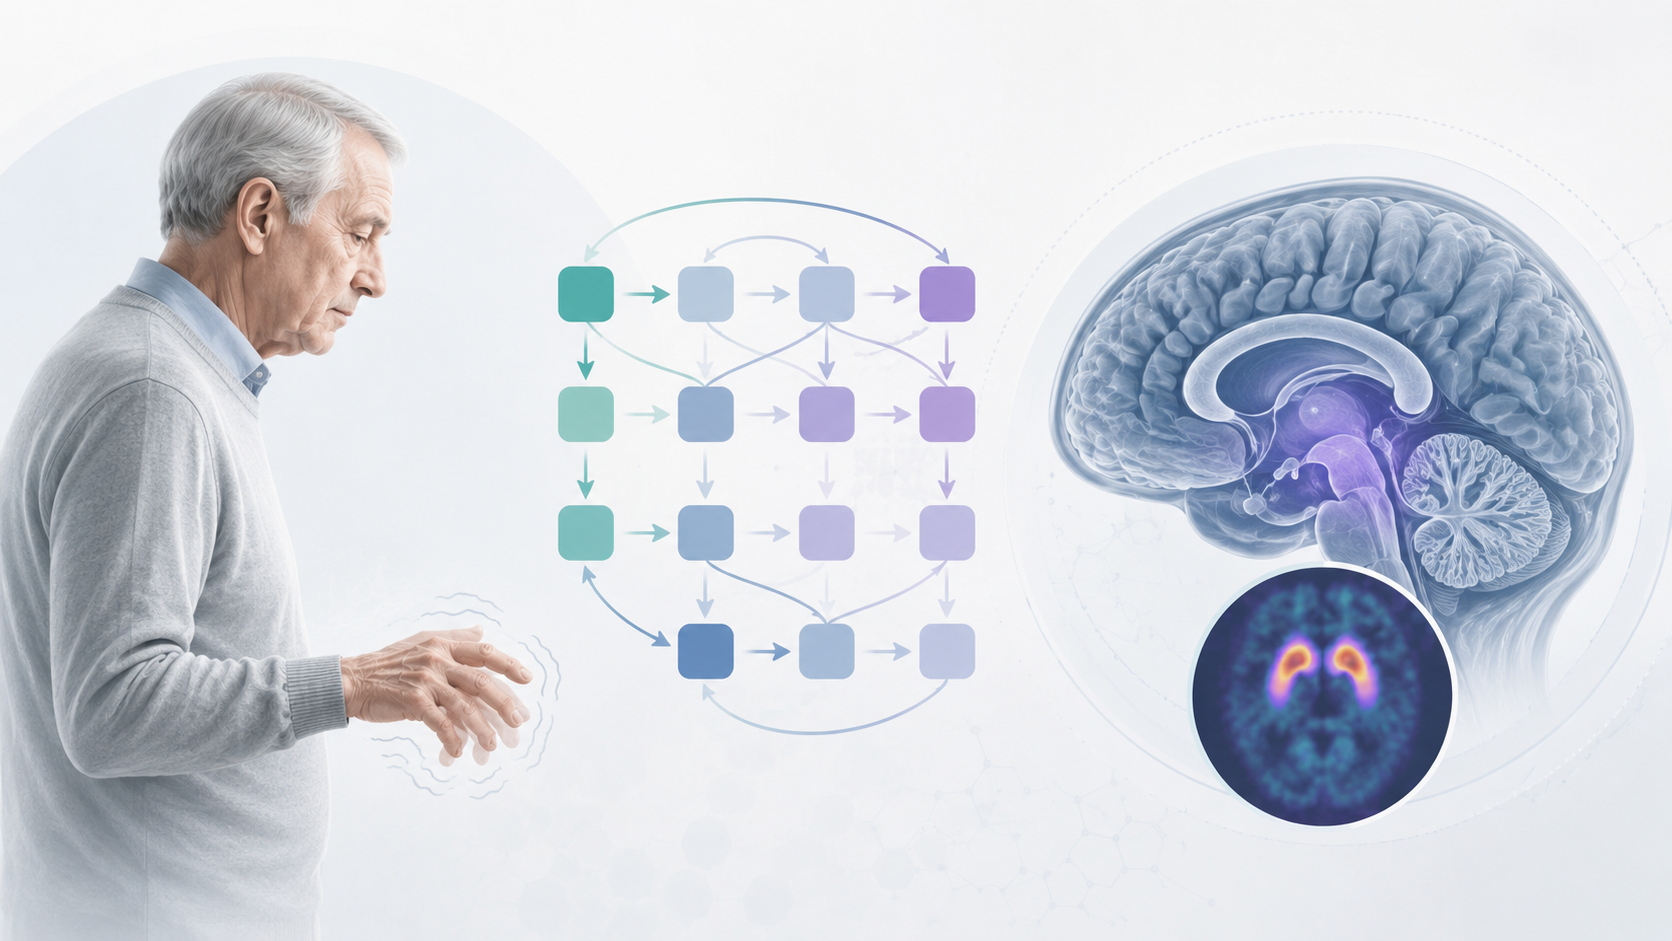
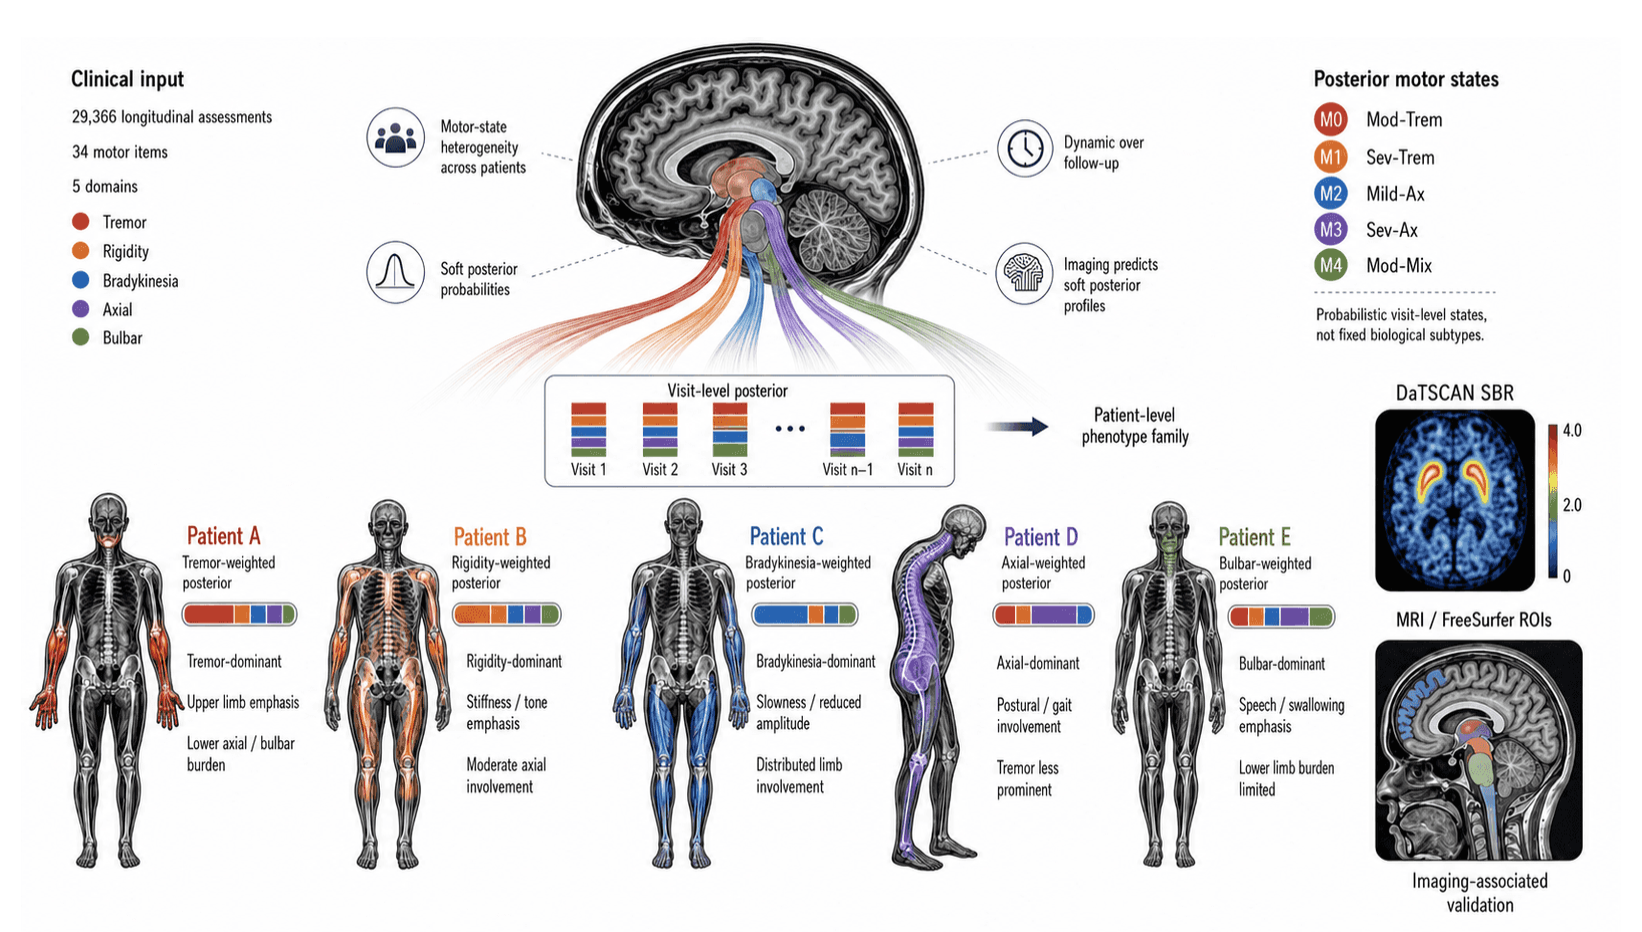
Update posterior-aware publication citation

diff --git a/src/components/publication_table.js b/src/components/publication_table.js
@@ -1,7 +1,7 @@
 import * as React from 'react'
 import DOMPurify from 'isomorphic-dompurify'
 import { Link } from 'gatsby'
-import { FaFilePdf, FaExternalLinkAlt, FaArrowUp, FaTimes } from 'react-icons/fa'
+import { FaFileAlt, FaFilePdf, FaExternalLinkAlt, FaArrowUp, FaTimes } from 'react-icons/fa'
 import PropTypes from 'prop-types'
 import './publication_table.css'
 import { database } from '../data/database'
@@ -120,10 +120,11 @@ const publicationThumbnailMap = {
     src: pathwayAnchoredThumbnail,
     alt: 'Pathway anchored multimodal clustering publication thumbnail',
   },
-  'Posterior-Aware Phenotyping with Imaging Validation in Parkinson Disease': {
-    src: posteriorAwarePhenotypingThumbnail,
-    alt: 'Posterior-aware phenotyping with imaging validation publication thumbnail',
-  },
+  'Posterior-calibrated multimodal motor states reveal longitudinal and imaging-associated heterogeneity in Parkinson’s disease':
+    {
+      src: posteriorAwarePhenotypingThumbnail,
+      alt: 'Posterior-calibrated multimodal motor states publication thumbnail',
+    },
   'Integrated Genetic, Molecular, and Wearable Sensor Biomarkers Enable Bayesian Machine Learning-Driven Precision Stratification in Parkinson’s Disease: A Comprehensive Multi-Cohort Validation Study':
     {
       src: wearableSensorBiomarkersThumbnail,
@@ -164,6 +165,16 @@ const resolvePdfLink = pdfLink => {
   }
 
   return null
+}
+
+const getPaperLinkConfig = publication => {
+  const isPreprint = publication.PublicationType === 'arXiv'
+
+  return {
+    className: isPreprint ? 'pub-link-paper' : 'pub-link-pdf',
+    Icon: isPreprint ? FaFileAlt : FaFilePdf,
+    label: isPreprint ? 'Paper' : 'PDF',
+  }
 }
 
 const resolveProjectLink = projectLink => {
@@ -292,6 +303,7 @@ const PublicationTable = ({ publicationData = [] }) => {
                       {types[type].map((publication, index) => {
                         const thumbnail = publicationThumbnailMap[publication.Title]
                         const pdfLink = resolvePdfLink(publication.PDFLink)
+                        const paperLinkConfig = getPaperLinkConfig(publication)
 
                         return (
                           <div
@@ -330,10 +342,10 @@ const PublicationTable = ({ publicationData = [] }) => {
                                     href={pdfLink}
                                     target="_blank"
                                     rel="noopener noreferrer"
-                                    className="pub-link-btn pub-link-pdf"
+                                    className={`pub-link-btn ${paperLinkConfig.className}`}
                                   >
-                                    <FaFilePdf className="pub-link-icon" />
-                                    PDF
+                                    <paperLinkConfig.Icon className="pub-link-icon" />
+                                    {paperLinkConfig.label}
                                   </a>
                                 )}
                                 {(() => {

diff --git a/src/components/publication_table.css b/src/components/publication_table.css
@@ -279,13 +279,15 @@
   transition: all 150ms ease;
 }
 
-.pub-link-pdf {
+.pub-link-pdf,
+.pub-link-paper {
   background: #fef2f2;
   color: #dc2626;
   border: 1px solid #fecaca;
 }
 
-.pub-link-pdf:hover {
+.pub-link-pdf:hover,
+.pub-link-paper:hover {
   background: #dc2626;
   color: #fff;
   border-color: #dc2626;

diff --git a/src/markdown/projects/posterior_aware_pd_phenotyping/posterior_aware_pd_phenotyping.md b/src/markdown/projects/posterior_aware_pd_phenotyping/posterior_aware_pd_phenotyping.md
@@ -14,7 +14,7 @@ Department of Biomedical Engineering, National Institute of Technology Raipur
 
 Oden Institute for Computational Engineering and Sciences, The University of Texas at Austin
 
-**bioRxiv / MICCAI 2026** &nbsp; | &nbsp; [Paper](https://www.biorxiv.org/content/10.64898/2026.06.12.732003v1.full.pdf)
+**bioRxiv 2026** &nbsp; | &nbsp; [Paper](https://doi.org/10.64898/2026.06.12.732003)
 
 ---
 
@@ -40,7 +40,7 @@ The paper's central point is that posterior probabilities are useful, not incide
 
 ### Framework
 
-The MICCAI study analyzes 29,366 longitudinal MDS-UPDRS-III assessments from 1,847 PPMI participants. The item-level motor exam is aggregated into five clinical domains: tremor, bradykinesia, rigidity, axial function, and bulbar symptoms.
+The study analyzes 29,366 longitudinal MDS-UPDRS-III assessments from 1,847 PPMI participants. The item-level motor exam is aggregated into five clinical domains: tremor, bradykinesia, rigidity, axial function, and bulbar symptoms.
 
 A predefined Bayesian Gaussian mixture model search over 2,912 configurations selects a five-state representation. The framework uses model-conditioned posterior vectors to classify visits as high-confidence textbook assignments or intermediate-confidence chimera assignments. It also reconciles five-state and eight-state views through strong cross-granularity nesting.
 
@@ -110,10 +110,12 @@ The model should be read as a visit-level motor-state representation, not as pro
 ### Citation
 
 ```bibtex
-@inproceedings{tirhekar2026posterioraware,
-  title     = {Posterior-Aware Motor Phenotyping with Multimodal Imaging Validation in Parkinson's Disease},
-  author    = {Tirhekar, Harsh Milind and Yadav, Priyanshi and Bajaj, Chandrajit},
-  booktitle = {Proceedings of the International Conference on Medical Image Computing and Computer Assisted Intervention},
-  year      = {2026}
+@article{tirhekar2026posteriorcalibrated,
+  title   = {Posterior-calibrated multimodal motor states reveal longitudinal and imaging-associated heterogeneity in Parkinson's disease},
+  author  = {Tirhekar, H. M. and Yadav, P. and Bajaj, C.},
+  journal = {bioRxiv},
+  year    = {2026},
+  doi     = {10.64898/2026.06.12.732003},
+  url     = {https://doi.org/10.64898/2026.06.12.732003}
 }
 ```
